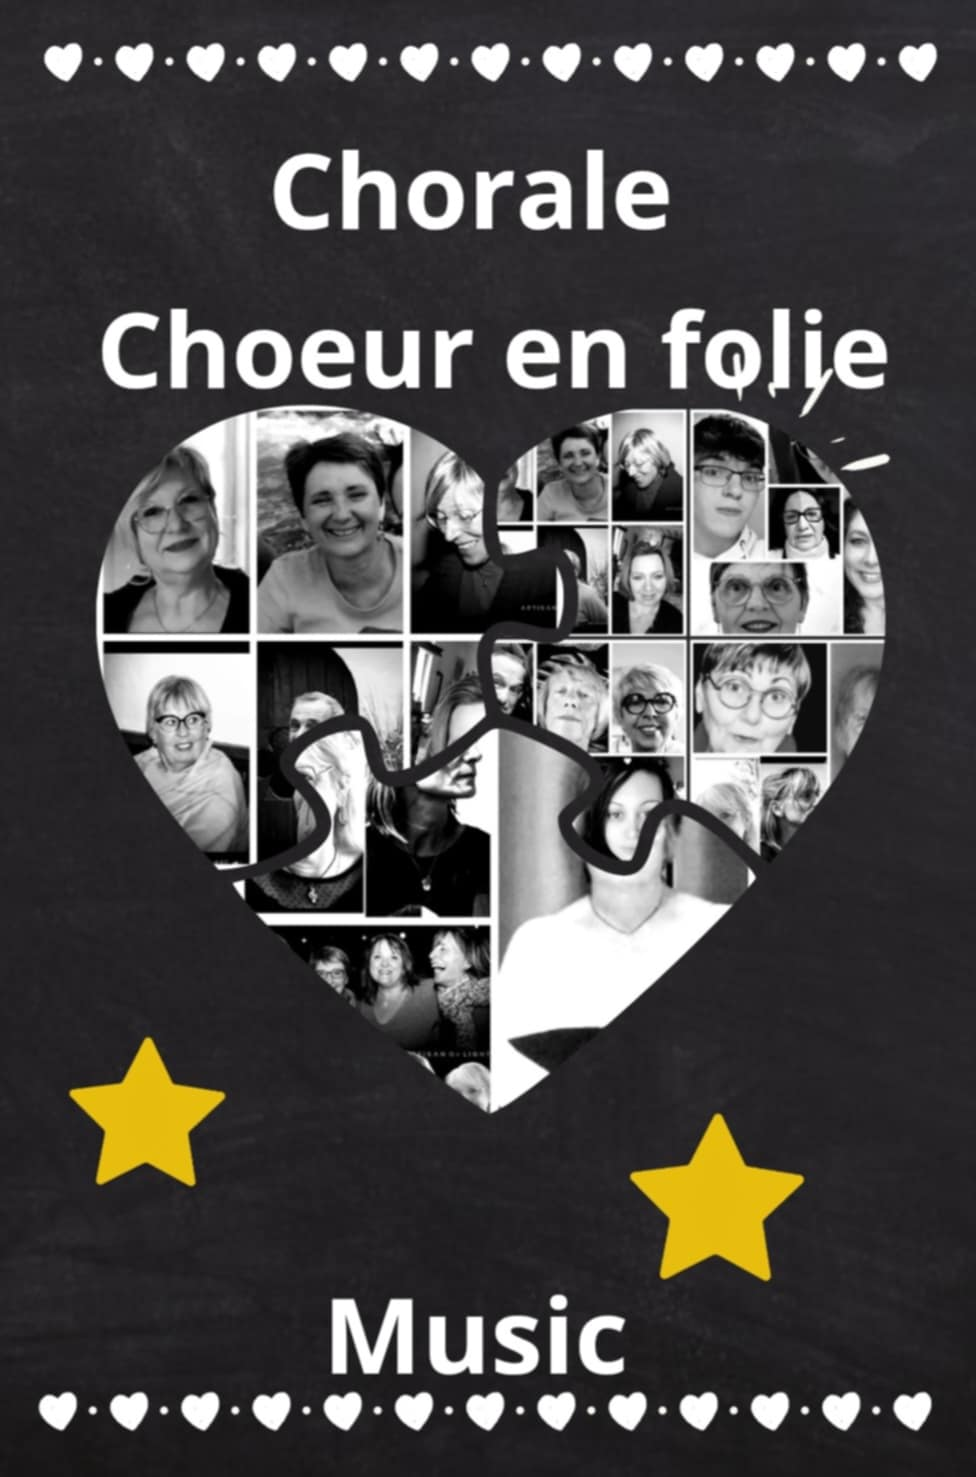
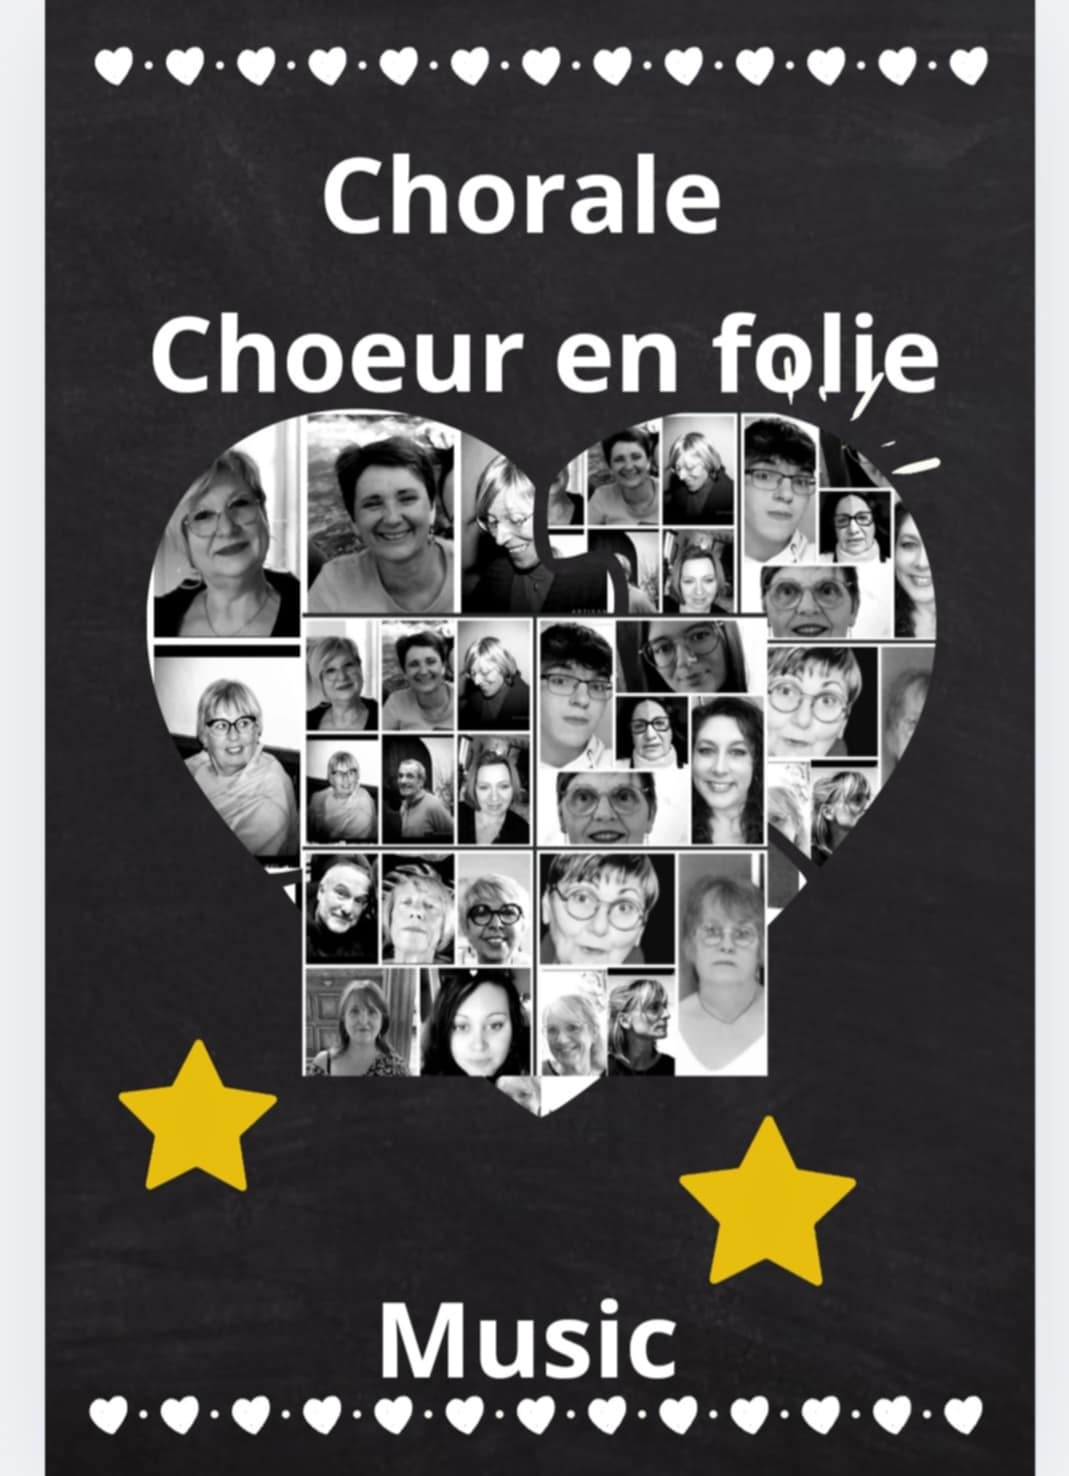
MAJ presentation

diff --git a/chorale2/espace.html b/chorale2/espace.html
@@ -31,8 +31,8 @@
         <i class="fas fa-bars"></i>
       </div>
     </nav>
-    <h1>Karaokés</h1>
-    <div class="karaoke">
+    <h1 class="poppins-bold degrade-angulaire  ">Karaokés</h1>
+    <div class="karaoke ">
       <ul>
         <li>
           <a
@@ -290,7 +290,7 @@ Et que le monde vivra uni<br>
           <div class="btn">
          <button class="toggle-lyrics">Paroles</button>
          <div class="lyrics">
-           <p>🎵 Faut qu'tu m'aimes <br>
+           <p class="montserrat">🎵 Faut qu'tu m'aimes <br>
             Car moi toute seule j'y arrive pas<br>
             Faut qu'tu m'aimes<br>
             Faut qu'tu la trouves jolie ma voix et mes poèmes<br>
@@ -379,7 +379,7 @@ Et que le monde vivra uni<br>
           <div class="btn">
           <button class="toggle-lyrics">Paroles</button>
           <div class="lyrics">
-            <p>🎵 C'est la fin <br>
+            <p  class="montserrat">🎵 C'est la fin <br>
               Le tout dernier matin<br>
               Le tout dernier jasmin<br>
               Ne me lâche pas la main<br>
@@ -455,7 +455,7 @@ Et que le monde vivra uni<br>
           <div class="btn">
           <button class="toggle-lyrics">Paroles</button>
           <div class="lyrics">
-            <p>🎵 Should've stayed, were there signs, I ignored? <br>
+            <p class="montserrat">🎵 Should've stayed, were there signs, I ignored? <br>
               ˈʃʊdəv steɪd, wɜː ðeə saɪnz, aɪ ɪɡˈnɔːd?  <br><br>
               Can I help you, not to hurt, anymore?<br>
               kæn aɪ hɛlp juː, nɒt tuː hɜːt, ˌɛniˈmɔː? <br><br>
@@ -528,7 +528,7 @@ Et que le monde vivra uni<br>
           </div>
           <button class="toggle-lyrics translat">traduction</button>
           <div class="translate">
-            <p>J'aurais dû rester, y avait-il des signes que j'ai ignorés ? <br>
+            <p class="montserrat">J'aurais dû rester, y avait-il des signes que j'ai ignorés ? <br>
               Est-ce que je peux t'aider à ne plus avoir mal ?<br>
               Nous avons vu l'éclat, quand le monde était endormi<br>
               Il y a des choses que l'on peut avoir, mais que l'on ne peut garder<br><br>
@@ -585,7 +585,7 @@ Et que le monde vivra uni<br>
           <div class="btn">
           <button class="toggle-lyrics">Paroles</button>
           <div class="lyrics">
-            <p>🎵 Oublie tes erreurs et tes peurs <br>
+            <p class="montserrat">🎵 Oublie tes erreurs et tes peurs <br>
               Je les efface<br>
               Et chaque faux pas que tu feras<br>
               Je tomberai à ta place<br>
@@ -641,7 +641,7 @@ Et que le monde vivra uni<br>
           <div class="lyrics">
            
             
-            <p>
+            <p class="montserrat">
               🎵 Is this the real life? Is this just fantasy? <br />
               ɪz ðɪs ðə rɪəl laɪf? ɪz ðɪs ʤʌst ˈfæntəsi? <br /> <br>
 
@@ -796,7 +796,7 @@ Et que le monde vivra uni<br>
 
           <button class="toggle-lyrics translat">traduction</button>
           <div class="translate">
-            <p>
+            <p class="montserrat">
               Est-ce que ceci est la réalité ? Est-ce que ceci est juste
               imaginaire ? <br />
               Pris dans un glissement de terrain Impossible d'échapper à la
@@ -891,7 +891,7 @@ Et que le monde vivra uni<br>
           <div class="btn">
           <button class="toggle-lyrics">Paroles</button>
           <div class="lyrics">
-            <p>🎵 Tu sais, je suis pas malheureux <br>
+            <p class="montserrat">🎵 Tu sais, je suis pas malheureux <br>
               Sentimental, on peut le dire<br>
               Un peu de buée dans les yeux<br>
               À chacun de mes sourires<br><br>

diff --git a/chorale2/assets/index.css b/chorale2/assets/index.css
@@ -1,13 +1,9 @@
-/*
-
-
-.montserrat-<uniquifier> {
+.montserrat {
   font-family: "Montserrat", sans-serif;
   font-optical-sizing: auto;
   font-weight: 400;
   font-style: normal;
 }
-
 
 .poppins-regular {
   font-family: "Poppins", sans-serif;
@@ -21,7 +17,18 @@
   font-style: normal;
 }
 
-*/
+.degrade-angulaire {
+  background: linear-gradient(70deg, rgb(4, 4, 117), rgb(98, 204, 218));
+  -webkit-background-clip: text;
+  background-clip: text;
+  -webkit-text-fill-color: transparent;
+}
+.degrade-horizontal {
+  background: linear-gradient(rgb(77, 47, 134), rgb(68, 161, 161));
+  -webkit-background-clip: text;
+  background-clip: text;
+  -webkit-text-fill-color: transparent;
+}
 
 * {
   margin: 0;
@@ -30,24 +37,32 @@
   list-style: none;
   box-sizing: border-box;
 }
-
+/*image d'accueil*/
 header {
   height: 100vh;
   width: 100vw;
-  background-image: url(images/essai_accueil.png);
-  background-size: cover;
+  background-image: url("images/groupe1.jpg");
+  background-size: covecontain; /* Couvre toute la zone */
+  background-position: center; /* Centre l'image */
+  background-repeat: no-repeat; /* Évite la répétition */
+  display: flex; /* Centrer du contenu si nécessaire */
+  align-items: center; /* Centre verticalement */
+  justify-content: center; /* Centre horizontalement */
+  text-align: center; /* Texte centré */
 }
+/*h1 invisible sur l'accueil*/
 .title {
   display: none;
 }
+/*other h1*/
 h1 {
   position: relative;
   top: 250px;
-  left: 500px;
+  left: 700px;
   font-size: 2.5rem;
   color: #0c3cc9;
 }
-
+/*navbar*/
 .navbar {
   position: absolute;
   width: 100%;
@@ -84,7 +99,9 @@ h1 {
   color: rgb(23, 46, 46);
   font-weight: 600;
 }
-/*page presentation*/
+/*end navbar*/
+
+/* background for all pages*/
 body {
   display: flex;
   background-color: #96c2db;
@@ -101,7 +118,7 @@ body {
   height: 520px;
   perspective: 1000px; /* Ajout de perspective pour l'effet 3D */
   position: absolute;
-  top: 650px;
+  top: 1500px;
   left: 50px;
 }
 
@@ -149,7 +166,7 @@ body {
   height: auto; /* Garde les proportions */
   border-radius: 10px; /* Ajoute des bords arrondis */
 }
-
+/*end flipcard*/
 /*menu burger*/
 .burger {
   display: none;
@@ -158,6 +175,19 @@ body {
   color: aliceblue;
 }
 
+/*presentation*/
+.groupe {
+  position: absolute;
+  top: 500px;
+  margin: 60px;
+
+  font-size: 1.2rem;
+}
+.groupe h2 {
+  padding: 40px;
+  margin-left: 300px;
+}
+/*end presentation*/
 /*wordCloud*/
 #wordCloud {
   text-align: center;
@@ -167,8 +197,8 @@ body {
 }
 #wordCloud h3 {
   position: absolute;
-  top: 550px;
-  text-align: center;
+  top: 1400px;
+  left: 900px;
   font-size: 2rem;
   color: #0c3cc9;
   margin-bottom: 20px;
@@ -177,7 +207,7 @@ body {
   width: 700px;
   height: 500px;
   position: absolute;
-  top: 700px;
+  top: 1500px;
   display: flex;
   flex-wrap: wrap;
   justify-content: center;
@@ -279,7 +309,7 @@ button {
 
 @media screen and (max-width: 768px) {
   header {
-    background-image: url(images/accueil.jpg);
+    background-image: url(images/groupe.jpg);
   }
   .burger {
     display: block; /* Affiche le burger */
@@ -330,19 +360,23 @@ button {
     top: 50px;
     left: 50px;
   }
+  .groupe {
+    top: 300px;
+  }
   #wordCloud h3 {
-    top: 1000px;
-    left: 20px;
+    top: 1300px;
+    left: 100px;
   }
   .wordCloud {
     position: absolute;
-    top: 1200px;
+    top: 1500px;
     left: 20px;
     right: 20px;
   }
   /*flipcard*/
   .container {
-    top: 300px;
+    top: 2100px;
+    left: 150px;
     width: 350px;
     height: 520px;
   }

diff --git a/chorale2/presentation.html b/chorale2/presentation.html
@@ -32,14 +32,46 @@
       </div>
     </nav>
 
-    <h1 class="poppins-bold">
-      Choeur en Folie : <br />
-      une mélodie de passion et de partage
+    <h1 class="poppins-bold degrade-angulaire">
+      Choeur en Folie : <br />une mélodie de passion et de partage
     </h1>
+
+    <div class="groupe">
+      <h2 class="poppins-bold degrade-horizontal">Qui sommes Nous</h2>
+      <p class="montserrat">
+        Choeur en folie, est un collectif de 23 passionnés de musique qui se
+        réunit pour partager des moments forts en émotion à travers le chant,
+        depuis 2025. Nous interprétons un répertoire varié allant de la chanson
+        française, aux grands classiques de la musique contemporaine.
+      </p>
+
+      <h2 class="poppins-bold degrade-horizontal">
+        Notre mission et nos valeurs
+      </h2>
+      <p class="montserrat">
+        Nous croyons au pouvoir de la musique pour rassembler et transmettre des
+        émotios.Chanter ensemble, c'est partager une énergie unique avec notre
+        public et créer des instants magiques. Nous mettons un point d'honneur à
+        interpréter des mmorceaux qui portent un message fort et inspirant.
+      </p>
+      <h2 class="poppins-bold degrade-horizontal">Notre répertoire</h2>
+      <p class="montserrat">
+        Nous préparons actuellement un programme vibrant pour nos futurs
+        concerts, avec des chansons engagées et émouvantes. Ces morceaux
+        porteurs de sens et d'émotion, résonnent avec notre message et notre
+        envie de partager des valeurs de force et d'espoir. Nous avons hâte de
+        vous retrouver pour ces moments inoubliables.
+      </p>
+      <h2 class="poppins-bold degrade-horizontal">Suivez-nous</h2>
+      <i class="fa-brands fa-facebook"> </i>
+    </div>
+
     <div class="container">
       <div class="card">
         <div class="front">
-          <h2 class="poppins-regular">Notre cheffe de choeur</h2>
+          <h2 class="poppins-regular degrade-horizontal">
+            Notre cheffe de choeur
+          </h2>
           <img
             src="assets/images/Celine_presentation.jpg"
             alt="Céline"
@@ -48,8 +80,10 @@
         </div>
 
         <div class="back">
-          <h2 class="poppins-bold">Céline la magicienne des voix</h2>
-          <p class="montserrat-<uniquifier>" id="text">
+          <h2 class="poppins-bold degrade-horizontal">
+            Céline la magicienne des voix
+          </h2>
+          <p class="montserrat" id="text">
             Une énergie rayonnante illumine chaque répétition. <br />
             <br />
             Toujours souriante et bienveillante, elle guide nos voix avec une
@@ -72,7 +106,9 @@
     </div>
 
     <section id="wordCloud">
-      <h3>Choeur en folie en quelques mots</h3>
+      <h3 class="poppins-bold degrade-horizontal">
+        Choeur en folie en quelques mots
+      </h3>
       <div class="wordCloud">
         <span class="big">Joie</span><span class="medium">Bienveillance</span>
         <span class="big">Energie</span><span class="medium">Entraide</span
